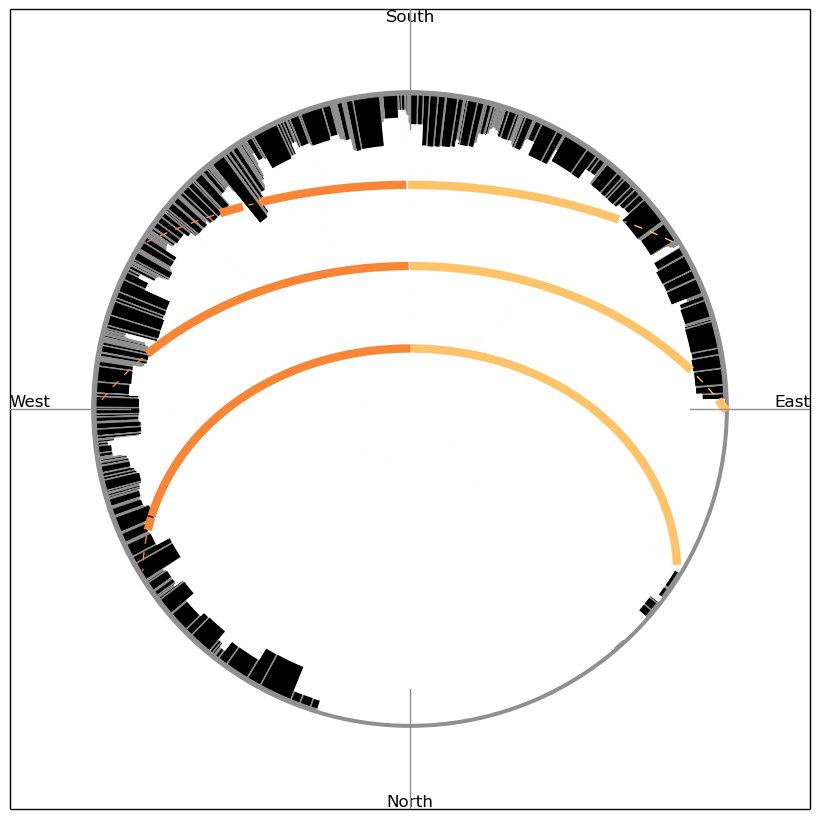
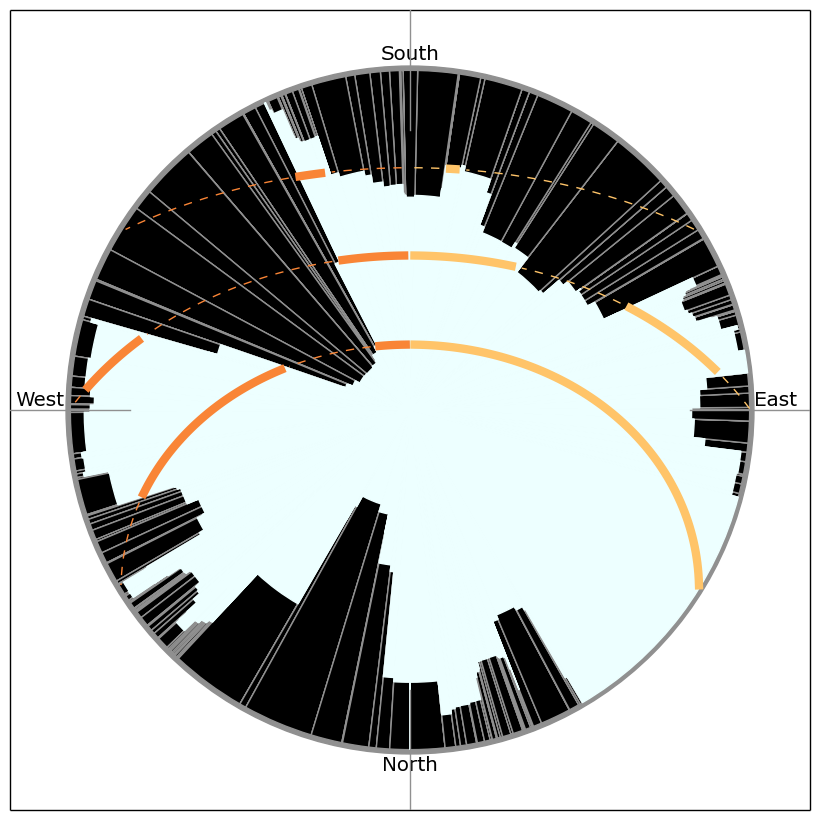
finalized design of web app

Changed region(s): [[0.0, 0.0, 1.0, 1.0]]

diff --git a/app/templates/about.html b/app/templates/about.html
@@ -163,38 +163,63 @@
           
           <div class="tab-pane active" id="summary_tab">
             <h3></h3>
-            <p>I created SunnyMinutes in July 2015 as a data science project during the first Healthcare Data Science program organized by Insight Data in Boston, MA.
+
+            <p>I created SunnyMinutes in July 2015 as a data science project during the first Healthcare Data Science Fellowship program organized by 
+            <a href="http://insightdatascience.com/">Insight Data Science</a> in Boston, MA.
             </p>
+
             <h3>Tools</h3>
             <p>
-            Processing: Python 2.7 <br>
-            Storage: mySQL, pysql <br>
-            Visualization: matplotlib <br>
-            Web layout: flask, Bootstrap <br>
+
+            Processing: 
+            <a href="https://www.python.org/download/releases/2.7/">Python 2.7</a>
+            <br>
+            Storage: 
+            <a href="http://dev.mysql.com/doc/refman/5.7/en/installing.html">mySQL</a>, 
+            <a href="http://pysql.sourceforge.net/">pysql</a> 
+            <br>
+            
+            Visualization: 
+            <a href="http://matplotlib.org/">matplotlib </a> <br>
+
+            Web layout: 
+            <a href="http://flask.pocoo.org/">Flask </a>, 
+            <a href="http://getbootstrap.com/">Bootstrap </a> 
+            <br>
             </p>
+
             <h3>Source</h3>
             <p>
-            The entire source code can be downloaded from GitHub.
+            The entire source code can be downloaded from 
+            <a href="https://github.com/peterkomar-hu/SunnyMinutes">GitHub</a>.
             </p>
           </div>
 
           <div class="tab-pane" id="data_tab">
             <h3> Buildings </h3> 
             <p> 
-            I obtained the geometries of the buildings of Manhattan from OpenStreetMap. Each building (or building part) is represented by an ordered list of nodes (latitude, longitude), and a single hight value.
+            I obtained the geometries of the buildings of Manhattan from 
+            <a href="https://www.openstreetmap.org/">OpenStreetMap</a>.
+            Each building (or building part) is represented by an ordered list of nodes (latitude, longitude), and a single hight value.
             </p>
             <br>
 
             <h3> Sun light </h3> 
             <p>
-            I implemented the astronomical equation to calculate the equatorial coordinates of the sun.
+            I implemented the 
+            <a href="https://en.wikipedia.org/wiki/Position_of_the_Sun">astronomical equation</a>
+            to calculate the equatorial coordinates of the sun.
             </p>
           </div>
+
+          
           
           <div class="tab-pane" id="methods_tab">
             <h3> Data aquisition </h3>
             <p>
-            I called OpenStreetMap's Overpass API with a bounding box containing Manhattan (whose coordinates I read off Google Maps) and filters for  "building", and "building:part" tags.
+            I called OpenStreetMap's 
+            <a href="http://wiki.openstreetmap.org/wiki/Overpass_API">Overpass API</a>
+            with a bounding box containing Manhattan (whose coordinates I read off Google Maps) and filters for  "building", and "building:part" tags.
             </p>
             <p>
             I processed the XML file (size ~100MB) with regular expressions, and extraced the lists of nodes (lat, lon) and height values for each building. I converted the (lat, lon) coordinates to Cartesian coordinates using the assumption that Manhattan is small enough to be taken as flat.

diff --git a/app/templates/results.html b/app/templates/results.html
@@ -111,6 +111,7 @@
     #summary_tab { width: 550px;}
     #fisheye_tab { width: 550px;}
     #map_tab { width: 550px;}
+    #score_tab { width: 550px;}
 
     /* Input textboxes */
     .input-address { width: 245px;}
@@ -201,6 +202,7 @@
         <li class="active"><a href="#map_tab" data-toggle="tab">Map</a></li>
         <li><a href="#fisheye_tab" data-toggle="tab">Sky</a></li>
         <li><a href="#summary_tab" data-toggle="tab">Summary</a></li>
+        <li><a href="#score_tab" data-toggle="tab">Score</a></li>
       </ul>
       <div id="my-tab-content" class="tab-content">
         <div class="tab-pane active" id="map_tab">
@@ -215,7 +217,20 @@
         <div class="tab-pane" id="fisheye_tab">
           <p>Fisheye view of the sky</p>
           <img src="./static/inverted_polar_plot.png" height="500">
-      </div>
+        </div>
+        <div class="tab-pane" id="score_tab">
+          <p> Sunlight scores (on the scale of 0-100)</p>
+          <p> - Wake-up sun score (6-8am): {{wakeup_score}}</p>
+          <p> - Around-day sun score: {{day_score}}</p>
+          <br>
+          <p> Overall sun score:</p>
+          <h2>{{sun_score}}</h2>
+          <br>
+          <p> Comments:</p>
+          <p>{{message1}}</p>
+          <p>{{message2}}</p>
+          <!-- <img src="./static/inverted_polar_plot.png" height="500"> -->
+        </div>
       </div> <!-- /tab-conent -->
     </div>  <!-- /content -->
   </div>  <!-- /col-md-4 -->
@@ -239,7 +254,7 @@
        var address = '{{lat}}, {{lon}}';
 
        var map = new google.maps.Map(document.getElementById('map'), { 
-           mapTypeId: google.maps.MapTypeId.TERRAIN,
+           mapTypeId: google.maps.MapTypeId.HYBRID,
            zoom: 16
        });
 

diff --git a/app/templates/contact.html b/app/templates/contact.html
@@ -163,12 +163,13 @@
             </p>
             You can find me at:
             <p>
-            LinkedIn, GitHub, my homepage
+            <a href="https://www.linkedin.com/in/peterkomarhu">LinkedIn</a>, 
+            <a href="https://github.com/peterkomar-hu">GitHub</a>, 
+            <a href="http://users.physics.harvard.edu/~komar/">my homepage</a>
             </p>
           </div>
 
           
-
 
 
       </div> <!-- /tab-conent -->

diff --git a/app/views.py b/app/views.py
@@ -28,7 +28,9 @@ from skyline import *
 from sun import *
 from observer import *
 
-
+# colors
+COLOR_BROWN = '#2d1b00'
+COLOR_LIGHTBROWN = '#ffc469'
 
 DEFAULT_DAY = '7/31'
 DEFAULT_ADDRESS = 'Columbus Circle'
@@ -133,7 +135,7 @@ def zoom():
             if key not in building_keys_at_address:
                 buildings[key].plot_footprint(ax, color='k')
             else:
-                buildings[key].plot_footprint(ax, color='r')
+                buildings[key].plot_footprint(ax, color=COLOR_LIGHTBROWN)
     obs.plot_observers_location(ax)
     L = ZOOM_SIZE/2     # half size of the plotted area in meters
     ax.set_xlim([obs.x-L, obs.x+L])
@@ -174,7 +176,7 @@ def zoom_after_click():
             if key not in building_keys_at_address:
                 buildings[key].plot_footprint(ax, color='k')
             else:
-                buildings[key].plot_footprint(ax, color='r')
+                buildings[key].plot_footprint(ax, color=COLOR_LIGHTBROWN)
     obs.plot_observers_location(ax)
     L = ZOOM_SIZE/2     # half size of the plotted area in meters
     ax.set_xlim([obs.x-L, obs.x+L])
@@ -194,8 +196,8 @@ def zoom_after_click():
 def show_results():
     floor = request.args.get('Floor')
 
-    # if not obs.get_altitude(floor):
-    #     floor = DEFAULT_FLOOR
+    if not obs.get_altitude(floor):
+        floor = DEFAULT_FLOOR
     exec 'floor_placeholder = "'+ str(int(round(obs.z / 3))) + '"' in globals()
 
 
@@ -210,6 +212,21 @@ def show_results():
     summary.clear()
     summary.collect_summary(sil, obs, SUN_STEPSIZE)
 
+    # calculate sun score
+    minutes_in_2h = 2*60
+    minutes_in_12h = 12*60
+    minutes_of_total_visible_sun = sum(summary.morning_sun)
+    minutes_of_total_visible_sun += sum(summary.afternoon_sun)
+    minutes_of_total_visible_sun /= len(summary.dates)
+    minutes_of_waking_sun = sum(summary.wakinghours_sun)
+    minutes_of_waking_sun /= len(summary.dates)
+    wakeup_score = 100.0 * minutes_of_waking_sun / minutes_in_2h
+    day_score = 100.0 * minutes_of_total_visible_sun / minutes_in_12h
+    sun_score = 0.5 * wakeup_score + 0.5 * day_score
+    wakeup_score = round(wakeup_score, 1)
+    day_score = round(day_score, 1)
+    sun_score = round(sun_score, 1)
+    
     # create light summary plot
     fig = plt.figure()
     ax = fig.add_subplot(111)
@@ -242,9 +259,34 @@ def show_results():
     plt.savefig('./static/inverted_polar_plot.png', bbox_inches='tight')
     fig.clf()
 
+    # compile message
+
+    message1 = ''
+    if wakeup_score > 30:
+        message1 += 'High chance of waking up to morning light. Enjoy!'
+    elif wakeup_score > 10:
+        message1 += 'Some sunlight at wake-up time. OK.'
+    else:
+        message1 += 'No direct morning light around wake-up time. Use artifical light to stabilize your circadian rythm.'
+    
+    message2 = ''
+    if day_score > 80:
+        message2 += 'Lot of sunlight during the day. Enjoy!'
+    elif day_score > 50:
+        message2 += 'Some direct sunlight during the day. OK.'
+    elif day_score > 20:
+        message2 += 'Little direct sunlight during the day. Use artifical light to keep your spirit up.'
+    else: 
+        message2 += 'No direct sunlight. Use artifical light to keep your spirit up.'
+
     return render_template("results.html", lat=obs.lat, lon=obs.lon, 
         address_placeholder=address_placeholder, 
-        floor_placeholder=floor_placeholder)
+        floor_placeholder=floor_placeholder,
+        wakeup_score=wakeup_score,
+        day_score=day_score,
+        sun_score=sun_score,
+        message1=message1,
+        message2=message2)
 
 
 # @app.route('/building_zoom')

diff --git a/app/sun.py b/app/sun.py
@@ -232,6 +232,8 @@ class SunSummary:
         self.afternoon_sun = [] # list of floats (minutes)
         self.sunrise = [] # list of booleans
         self.sunset = [] # list of booleans
+        self.wakinghours_sun = [] # list of floats (minutes)
+        self.middayhours_sun = [] # list of floats (minutes)
         
         # initialize weeks
         this_year = dt.datetime.today().year
@@ -248,6 +250,8 @@ class SunSummary:
         self.afternoon_sun = [] # list of floats (minutes)
         self.sunrise = [] # list of booleans
         self.sunset = [] # list of booleans
+        self.wakinghours_sun = [] # list of floats (minutes)
+        self.middayhours_sun = [] # list of floats (minutes)
         
         # initialize weeks
         this_year = dt.datetime.today().year
@@ -271,6 +275,13 @@ class SunSummary:
             sunset_limit_index = int(15 / this_sun.stepsize)
             self.sunrise.append(any(this_sun.visible[:sunset_limit_index]))
             self.sunset.append(any(this_sun.visible[-sunset_limit_index:]))
+            
+            six_am_index = total_steps/2 - 360/this_sun.stepsize
+            eight_am_index = total_steps/2 - 240/this_sun.stepsize
+            ten_am_index = total_steps/2 - 120/this_sun.stepsize
+            two_pm_index = total_steps/2 + 120/this_sun.stepsize
+            self.wakinghours_sun.append(sum(this_sun.visible[six_am_index:eight_am_index])  * this_sun.stepsize)
+            self.middayhours_sun.append(sum(this_sun.visible[ten_am_index:two_pm_index])  * this_sun.stepsize)
 
     def plot_light(self, ax):
         color_morning = '#ffc469'
@@ -306,17 +317,25 @@ class SunSummary:
             if d.month > current_month:
                 first_weeks.append(1 + i / 7.0)
                 current_month += 1
-            d += dt.timedelta(days=1)
+            d += one_day
             i += 1
 
         # plot vertical lines to divide months
         for i in first_weeks:
             ax.plot([i,i], [height_of_plot, -height_of_plot], color='k', linewidth=0.5)
 
+        # find the x position of the current date
+        today = dt.datetime.today()
+        year = today.year
+        todays_week = (today - dt.datetime(year,1,1)).days / 7.0 + 1
+
+        # plot vertical line to show current date
+        ax.plot([todays_week, todays_week], [height_of_plot, -height_of_plot], color='r', linewidth=1)
+
         month_names = ['Jan', 'Feb', 'Mar', 'Apr', 'May', 'Jun', 'Jul', 'Aug', 'Sep', 'Oct', 'Nov', 'Dec']
         for i in range(0, 12, 1):
-            ax.text(first_weeks[i]+1.5, height_of_plot - 50, month_names[i])
-            ax.text(first_weeks[i]+1.5, -height_of_plot + 30, month_names[i])
+            ax.text(first_weeks[i]+1, height_of_plot - 50, month_names[i])
+            ax.text(first_weeks[i]+1, -height_of_plot + 30, month_names[i])
 
         # turn y labels into positive numbers
         y_ticks = range(-height_of_plot, +height_of_plot + dy_ticks, dy_ticks)
@@ -324,7 +343,7 @@ class SunSummary:
         plt.yticks(y_ticks, y_labels)
 
         ax.xaxis.set_visible(False)
-        ax.set_ylabel('minutes of morning/afternoon sun')
+        ax.set_ylabel('morning/afternoon sunlight [min]', fontsize=20)
         
 
 

diff --git a/app/skyline.py b/app/skyline.py
@@ -137,7 +137,7 @@ class Silhouette:
         
 
 
-    def draw_inverted_polar(self, ax, color='k', plot_size=2):
+    def draw_inverted_polar(self, ax, color='k', plot_size=1.85):
         gray_color = '#909090'
 
         # plot horizon
@@ -174,7 +174,7 @@ class Silhouette:
                     90+phi_deg[i+1]
                 ) \
             )
-        p = PatchCollection(wedge_list, facecolor='k', edgecolor=gray_color)
+        p = PatchCollection(wedge_list, facecolor=color, edgecolor=gray_color)
         ax.add_collection(p)
 
         # declare wedges, corresponding to the sky above each roof
@@ -188,7 +188,7 @@ class Silhouette:
                     90+phi_deg[i+1]
                 ) \
             )
-        p = PatchCollection(wedge_list, color='w')
+        p = PatchCollection(wedge_list, color='#edffff')
         ax.add_collection(p)
 
 
@@ -197,14 +197,28 @@ class Silhouette:
         # geographic directions and their names
         L = plot_size
         gray_color = '#909090'
+        fontsize = 'large'
+        outer_radius = np.pi/2 + 0.03
         ax.plot([0,0], [0.7*L,L], color=gray_color, zorder=10)
         ax.plot([0,0], [-0.7*L,-L], color=gray_color, zorder=10)
         ax.plot([-L,-0.7*L], [0,0], color=gray_color, zorder=10)
         ax.plot([L,0.7*L], [0,0], color=gray_color, zorder=10)
-        ax.text(0, -L, 'North', verticalalignment=u'bottom', horizontalalignment=u'center')
-        ax.text(0, L, 'South', verticalalignment=u'top', horizontalalignment=u'center')
-        ax.text(-L, 0, 'West', verticalalignment=u'bottom', horizontalalignment=u'left')
-        ax.text(L, 0, 'East', verticalalignment=u'bottom', horizontalalignment=u'right')
+        ax.text(0, -outer_radius, 'North', 
+            verticalalignment=u'top', 
+            horizontalalignment=u'center',
+            size=fontsize)
+        ax.text(0, outer_radius, 'South', 
+            verticalalignment=u'bottom', 
+            horizontalalignment=u'center',
+            size=fontsize)
+        ax.text(-outer_radius, 0, 'West', 
+            verticalalignment=u'bottom', 
+            horizontalalignment=u'right',
+            size=fontsize)
+        ax.text(outer_radius, 0, 'East', 
+            verticalalignment=u'bottom', 
+            horizontalalignment=u'left',
+            size=fontsize)
 
         # axes
         ax.set_ylim([-L, L])

diff --git a/app/buildingmapping.py b/app/buildingmapping.py
@@ -1,6 +1,10 @@
 # buildingmapping module
 
 import numpy as np
+import matplotlib
+matplotlib.use('Agg')
+from matplotlib.patches import Polygon
+from matplotlib.collections import PatchCollection
 
 # class to store a single node of a building
 class Node:
@@ -42,13 +46,22 @@ class Building:
         print 'Height:\n' + 'z=' + str(self.z)
         
     def plot_footprint(self, ax, color='k'):
+        gray_color = '#909090'
+        
         x_list = []
         y_list = []
-        for node in self.nodes:
+        for node in self.nodes[:-1]:
             x_list.append(node.x)
             y_list.append(node.y)
-        ax.plot(x_list,y_list, color=color)
         
+        x_arr = np.array([x_list])
+        y_arr = np.array([y_list])
+
+        xy = np.concatenate((x_arr.T, y_arr.T), axis=1)
+        poly = Polygon(xy)
+        p = PatchCollection([poly], facecolor=color, edgecolor=gray_color)
+        ax.add_collection(p)
+
     def calculate_center(self):
         x_array = []
         y_array = []
